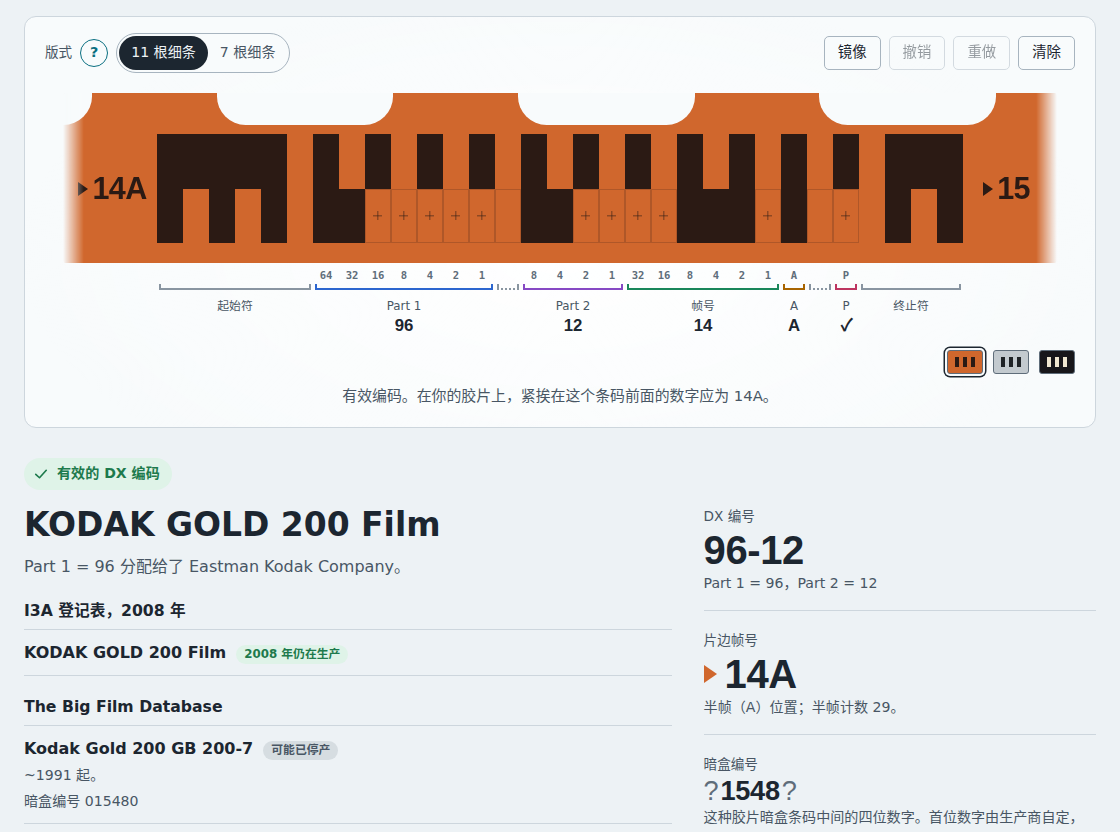
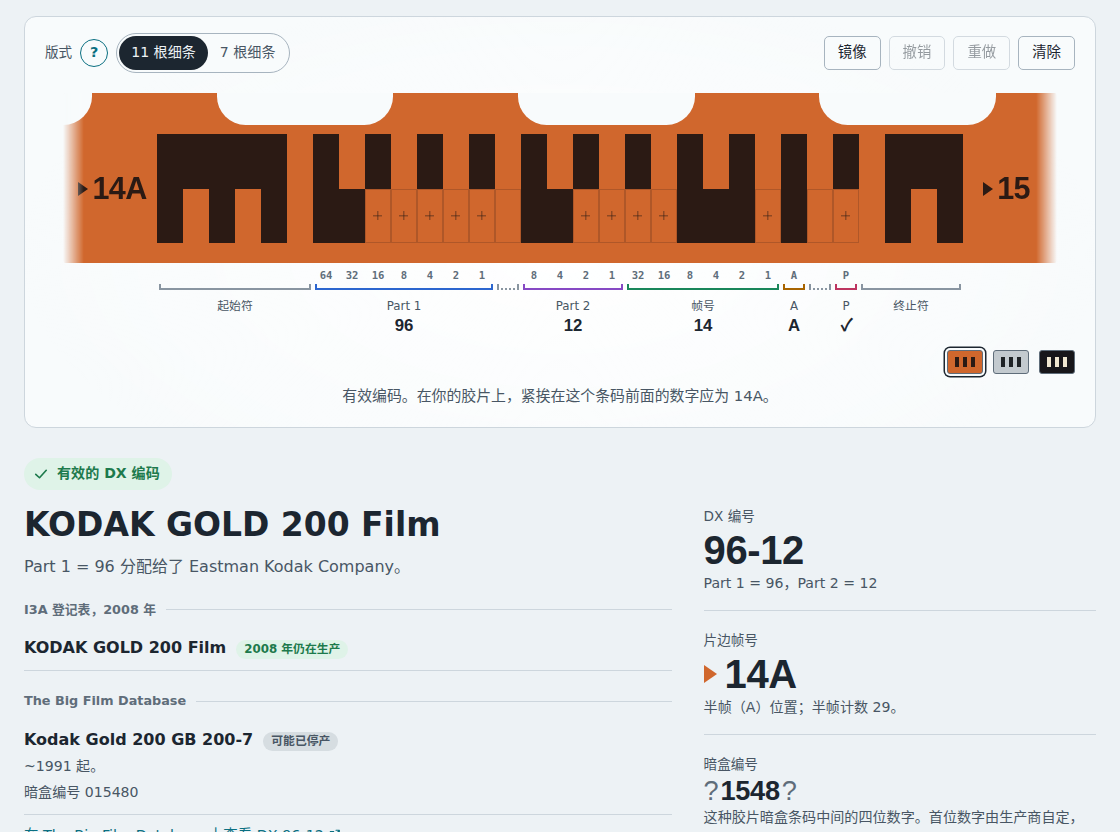
change source label to be more distinct

Changed region(s): [[0.0, 0.7188, 0.3125, 1.0], [0.1875, 0.9688, 0.3125, 1.0]]

diff --git a/site/css/style.css b/site/css/style.css
@@ -1585,13 +1585,26 @@ h1 {
   margin-top: 22px;
 }
 
+/* The source of the films below: a small grey label on a hairline, so it
+   does not read as one of the films. */
 .source-block__title {
   display: flex;
-  flex-wrap: wrap;
   align-items: center;
-  gap: 6px 10px;
-  font-size: 0.98rem;
-  font-weight: 650;
+  gap: 10px;
+  font-size: 0.8rem;
+  font-weight: 600;
+  color: var(--ink-3);
+}
+
+.source-block__title::after {
+  content: "";
+  flex: 1;
+  height: 1px;
+  background: var(--rule);
+}
+
+.source-block__title + .matches {
+  border-top: 0;
 }
 
 .source-block--more summary {
